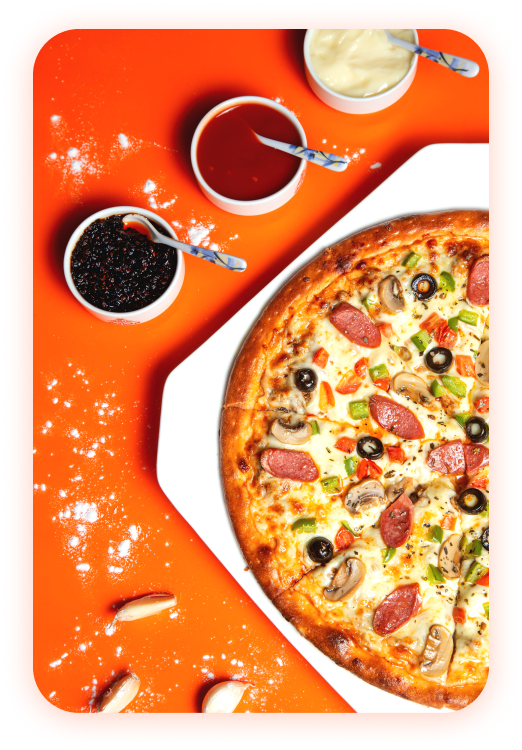
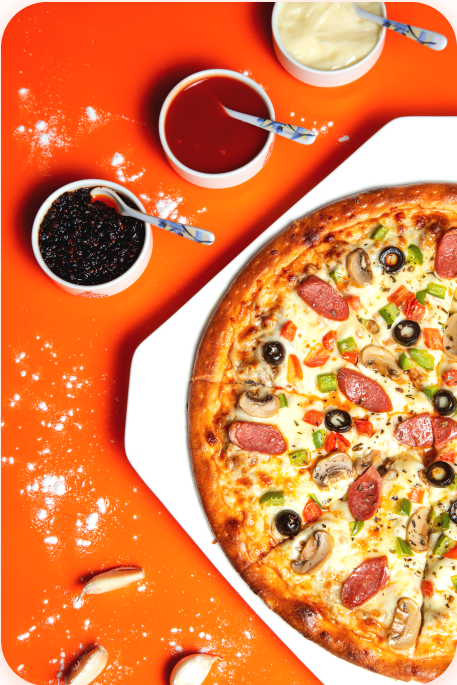
main screen image

diff --git a/src/pages/Index.vue b/src/pages/Index.vue
@@ -3,21 +3,24 @@ Layout
   Header
   section.main
     .main__container
-      h1 Самая Быстрая Доставка Пиццы
-      .main__title
-        .main__title-fast Самая Быстрая
-        .main__title-wrap
-          .main__title-delivery Доставка
-          g-image.main__title-img(alt="lightning image", src="~/images/Lightning.png", width="54")
-          .main__title-pizza Пиццы
-      p.main__suptitle {{ suptitle }}
-        span.main__suptitle-span пицца бесплатно!
-      .main__process Процесс приготовления:
-      Video.main__video
-      .main__button
-        BaseBtn(:text="'заказать'", , :classBtn="'paddingBtnMain'")
-  <!-- Learn how to use images here: https://gridsome.org/docs/images -->
-  //- g-image(alt="Example image", src="~/favicon.png", width="135")
+      .main__content
+        h1 Самая Быстрая Доставка Пиццы
+        .main__title
+          .main__title-fast Самая Быстрая
+          .main__title-wrap
+            .main__title-delivery Доставка
+            g-image.main__title-img(alt="lightning image", src="~/images/Lightning.png", width="54")
+            .main__title-pizza Пиццы
+        p.main__suptitle {{ suptitle }}
+          span.main__suptitle-span пицца бесплатно!
+        .main__process Процесс приготовления:
+        Video.main__video
+        .main__button
+          BaseBtn(:text="'заказать'", :classBtn="'paddingBtnMain'")
+      .main__pic
+        g-image.main__img(alt="Изображение пиццы", src="~/images/main-img.png", width="456")
+    <!-- Learn how to use images here: https://gridsome.org/docs/images -->
+    //- g-image(alt="Example image", src="~/favicon.png", width="135")
 
 </template>
 
@@ -26,6 +29,23 @@ import Header from "~/components/Header.vue";
 import Video from "~/components/Video.vue";
 import BaseBtn from "~/components/BaseBtn.vue";
 export default {
+  metaInfo () {
+    return this.$seo({
+      title: 'Пицца', // Uses the titleTemplate in Gridsome config
+      description: 'My description',
+      keywords: 'one,two',
+      openGraph: {
+        title: 'My site',
+        type: 'website'
+      },
+      twitter: {
+        title: 'My site',
+        type: 'summary'
+      },
+      link: [],   // any links
+      script: []  // any scripts
+    })
+  },
   components: {
     Header,
     Video,
@@ -35,15 +55,15 @@ export default {
     return {
       suptitle: "Доставим сочную пиццу для вашей семьи за 30 минут, если курьер опаздывает - "
     }
-  },
-  metaInfo: {
-    title: 'Hello, world!'
   }
 }
 </script>
 
 <style scoped>
 .main__container{
+  display: flex;
+  justify-content: space-between;
+  align-items: center;
   padding-bottom: 7%;
 }
 
@@ -90,9 +110,9 @@ h1{
   margin-right: 20px;
 }
 
-.main__title-pizza{
+/* .main__title-pizza{
 
-}
+} */
 
 .main__suptitle{
   width: 100%;
@@ -123,9 +143,9 @@ h1{
   margin-bottom: 4.8%;
 }
 
-.main__play-btn{
+/* .main__play-btn{
 
-}
+} */
 .main__button{
   width: 100%;
   max-width: 230px;
@@ -137,4 +157,34 @@ font-weight: 500;
 line-height: 123.5%;
 }
 
+.main__pic{
+  position: relative;
+  
+}
+
+.main__img{
+ 
+  border-radius: 46px;
+  box-shadow: 0px 4px 33px 0px rgba(255, 78, 21, 0.29);
+}
+
+.main__pic::before{
+  position: absolute;
+  top: -19%;
+  right: -29%;
+  content: url('../images/pizza.png');
+  width: 287px;
+  height: 287px;
+  z-index: -1;
+}
+
+.main__pic::after{
+  position: absolute;
+  bottom: -12%;
+  left: -41%;
+  content: url('../images/fries.png');
+  width: 287px;
+  height: 287px;
+  z-index: -1;
+}
 </style>

diff --git a/gridsome.config.js b/gridsome.config.js
@@ -18,7 +18,7 @@ function addStyleResource (rule) {
 }
 
 module.exports = {
-  siteName: 'Gridsome',
+  siteName: 'pizza',
   chainWebpack (config) {
     // Load variables for all vue-files
     const types = ['vue-modules', 'vue', 'normal-modules', 'normal']
@@ -34,6 +34,12 @@ module.exports = {
           pug: { /* Options for `pug-plain-loader` */ },
           pugLoader: { /* Options for `pug-loader` */ }
       }
+    },
+    {
+      use: 'gridsome-plugin-seo'
+    },
+    {
+      use: 'gridsome-plugin-modal'
     },
     {
       use: 'gridsome-plugin-sass-resources-loader',
